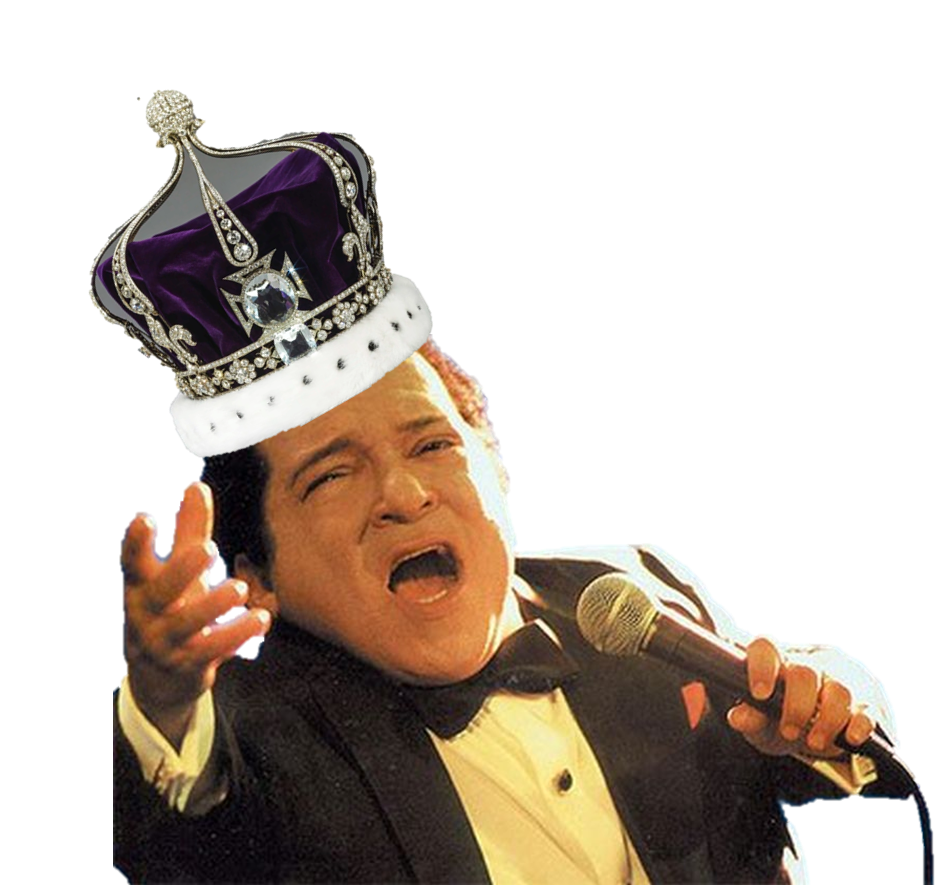
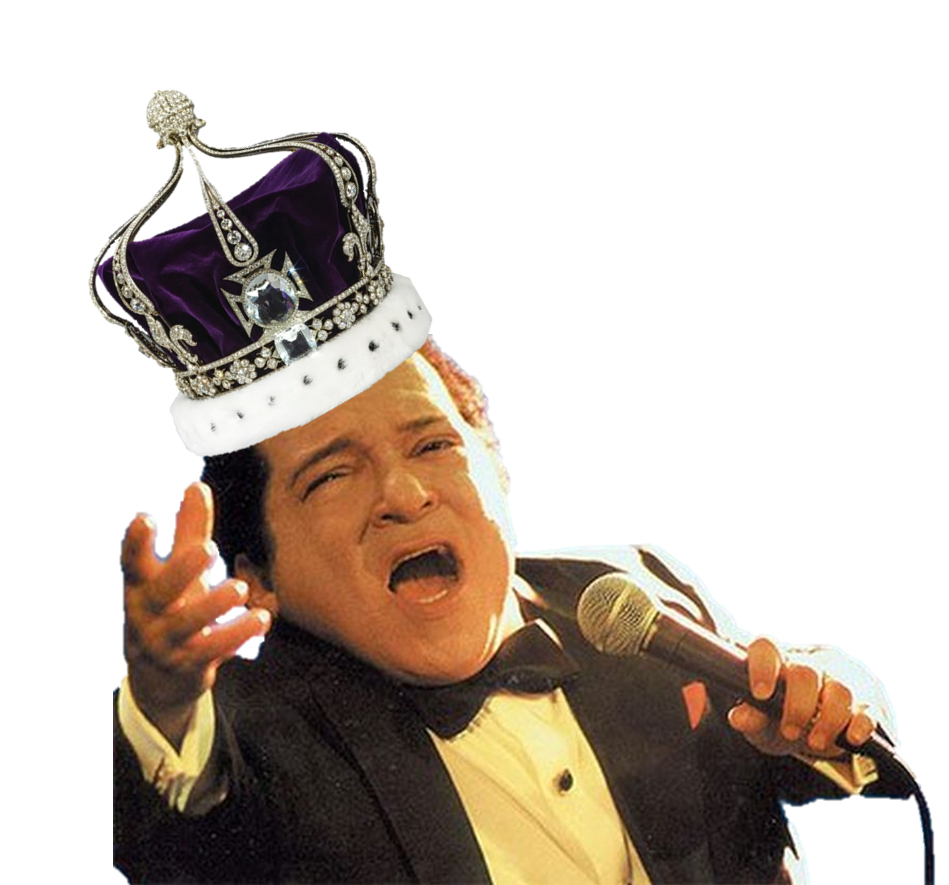
fix nelsonned imgs

diff --git a/index.html b/index.html
@@ -8,9 +8,9 @@
 <body>
 <style>
 body{background:url(./stage-lights-background-tdvn4t1fwtpyl8tp.webp);background-size:cover}
-.nelsonned{background:url(./img/nelsonned.png);background-size:cover;width:600px;height:600px;position:fixed;bottom:0px;left:70px}
+.nelsonned{background:url(./img/nelsonned.png);background-size:cover;width:643px;height:600px;position:fixed;bottom:0px;left:70px}
 .mariliamendonça{background:url(./img/mariliamendonça.png);background-size:cover;width:740px;height:740px;position:fixed;bottom:0px;right:0px}
-.nelsonned.active{background:url(./img/nelsonned_active.png);background-size:cover;width:600px;height:600px}
+.nelsonned.active{background:url(./img/nelsonned_active.png);background-size:cover;width:643px;height:600px}
 .mariliamendonça.active{background:url(./img/mariliamendonça_active.png);background-size:cover;width:740px;height:740px}
 </style>
     <button id="startButton">Start</button>
